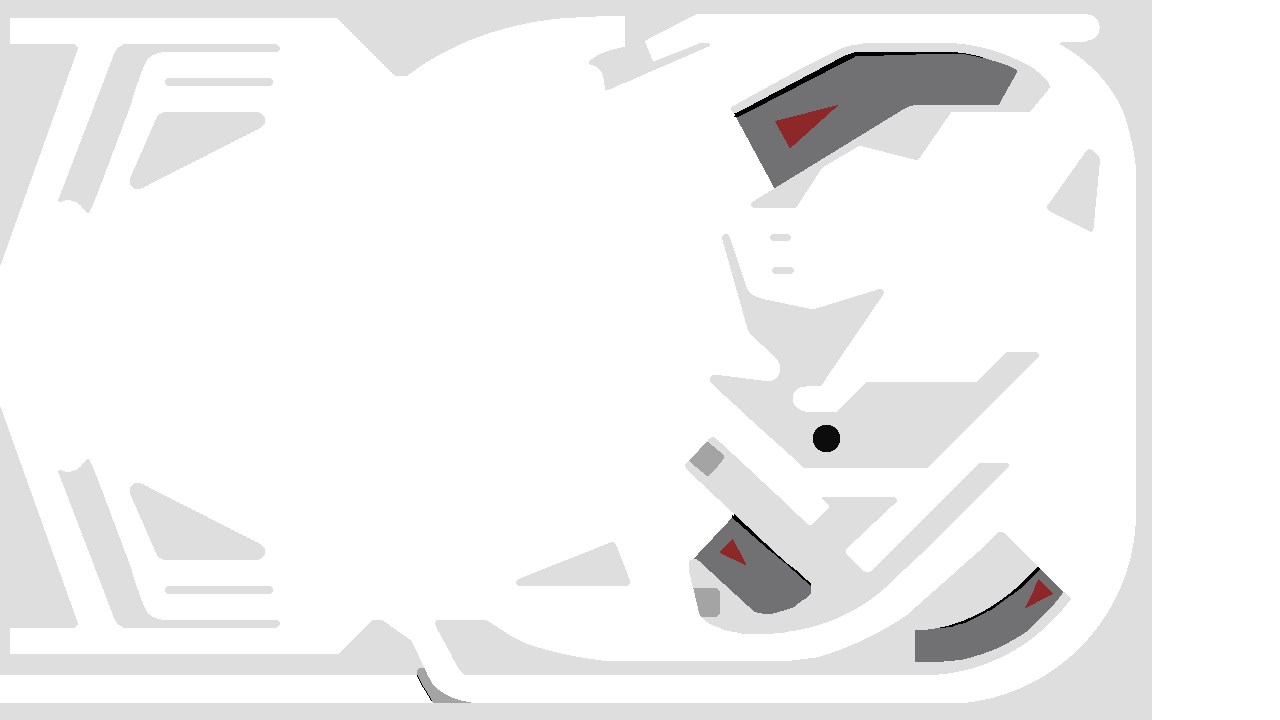
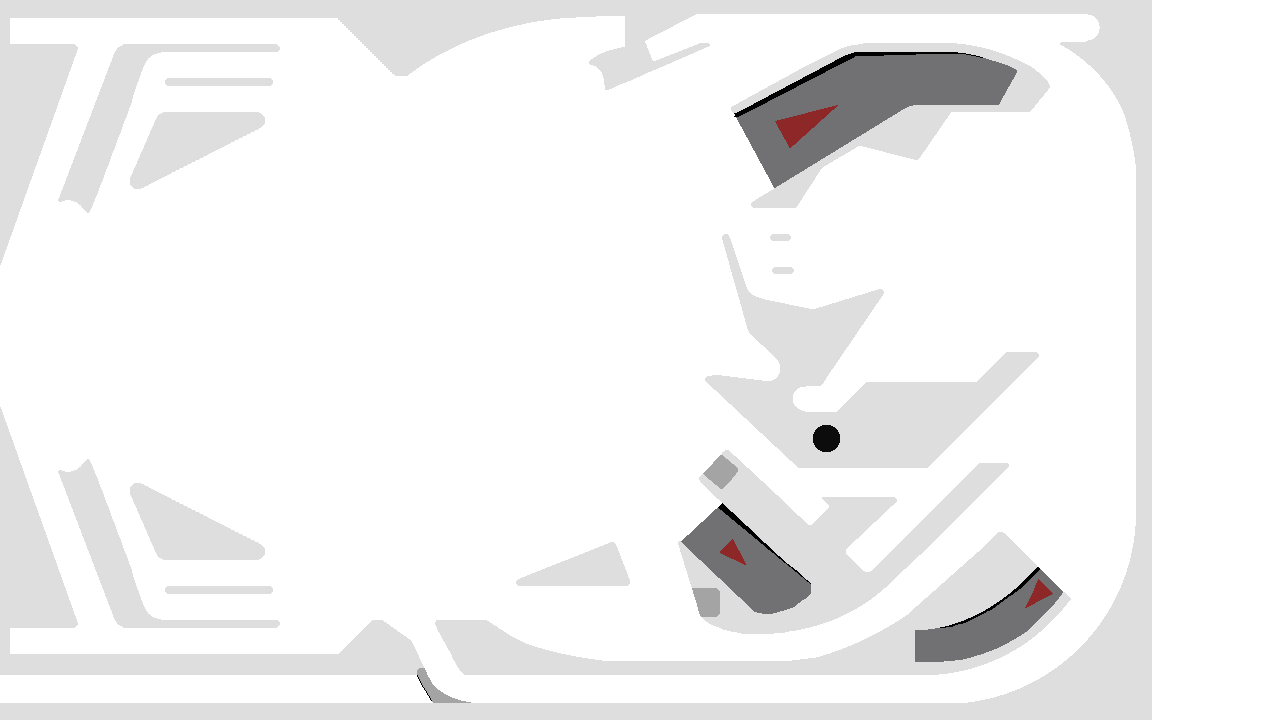
change upper walls, add optwall for ball lock, add pinwheel, update graphics

diff --git a/games/pinball/source/layer.h b/games/pinball/source/layer.h
@@ -40,9 +40,9 @@ class Layer {
 
         // Main table layer
         vector<float> m_upperWall = {859.0, 44.1, 854.5, 45.0, 849.1, 46.1, 843.8, 47.2, 822.1, 58.0, 800.5, 68.8, 766.0, 87.8, 731.5, 106.8, 731.2, 108.5, 730.8, 110.1, 732.0, 111.5, 733.2, 113.0, 734.8, 113.0, 736.4, 113.0, 789.3, 84.9, 842.1, 56.7, 848.8, 54.3, 855.4, 51.9, 910.0, 52.3, 964.5, 52.7, 971.4, 54.4, 978.4, 56.0, 992.9, 60.6, 1007.5, 65.2, 1017.5, 70.3, 1027.5, 75.3, 1034.8, 80.3, 1042.0, 85.4, 1034.4, 95.9, 1026.9, 104.9, 968.7, 105.2, 910.5, 105.5, 906.5, 107.7, 902.5, 109.8, 837.0, 150.0, 771.5, 190.1, 768.3, 193.3, 765.0, 196.4, 765.0, 200.0, 765.0, 203.7, 767.1, 205.6, 769.2, 207.5, 782.8, 207.5, 796.3, 207.5, 808.6, 188.6, 820.9, 169.7, 823.2, 167.5, 825.5, 165.3, 841.2, 155.6, 856.8, 146.0, 859.0, 146.0, 861.2, 146.0, 889.0, 153.2, 916.9, 160.3, 918.3, 159.2, 919.7, 158.0, 935.5, 135.0, 951.3, 112.0, 990.6, 112.0, 1029.9, 112.0, 1036.7, 103.7, 1043.6, 95.5, 1046.9, 91.3, 1050.3, 87.1, 1049.0, 84.0, 1047.7, 80.9, 1040.6, 74.4, 1033.5, 67.8, 1021.5, 62.0, 1009.5, 56.1, 999.1, 52.5, 988.6, 48.9, 976.6, 46.3, 964.5, 43.7, 914.0, 43.4, 863.5, 43.1, 859.0, 44.1};
-        vector<float> m_upperWall2 = {698.3, 450.6, 685.5, 464.2, 685.1, 465.7, 684.8, 467.3, 693.7, 475.9, 702.5, 484.5, 732.4, 512.5, 762.3, 540.5, 773.4, 550.8, 784.5, 561.2, 790.5, 565.8, 796.5, 570.4, 803.7, 577.0, 811.0, 583.5, 811.0, 588.7, 811.0, 593.8, 807.8, 596.5, 804.5, 599.1, 799.0, 603.3, 793.5, 607.4, 782.7, 610.7, 771.9, 614.0, 768.0, 614.0, 764.1, 614.0, 759.3, 613.0, 754.5, 611.9, 725.6, 585.5, 696.8, 559.0, 694.8, 559.0, 692.9, 559.0, 690.9, 560.0, 689.0, 561.1, 689.0, 566.1, 689.0, 571.2, 693.4, 589.3, 697.8, 607.5, 698.5, 610.9, 699.2, 614.3, 703.9, 618.9, 708.5, 623.6, 716.7, 626.8, 724.9, 630.1, 732.2, 631.8, 739.5, 633.5, 759.5, 633.5, 779.5, 633.5, 787.0, 632.1, 794.5, 630.7, 803.5, 628.8, 812.5, 626.9, 824.1, 623.0, 835.7, 619.2, 846.6, 613.7, 857.6, 608.2, 866.5, 602.1, 875.5, 596.1, 882.2, 590.3, 888.9, 584.5, 912.2, 562.3, 935.5, 540.2, 972.4, 503.2, 1009.3, 466.2, 1008.7, 464.6, 1008.1, 463.0, 993.8, 463.0, 979.5, 463.0, 925.0, 517.5, 870.5, 572.0, 867.6, 572.0, 864.7, 572.0, 855.4, 562.8, 846.0, 553.6, 846.0, 551.5, 846.0, 549.3, 870.8, 526.1, 895.5, 502.9, 896.4, 501.5, 897.4, 500.2, 896.1, 498.6, 894.8, 497.0, 858.4, 497.0, 822.0, 497.0, 825.5, 502.0, 829.0, 505.4, 829.0, 506.4, 829.0, 507.5, 820.3, 516.2, 811.5, 525.0, 810.0, 525.0, 808.4, 525.0, 793.5, 510.7, 778.5, 496.4, 746.5, 466.7, 714.6, 437.0, 712.9, 437.0, 711.2, 437.0, 698.3, 450.6};
-        vector<float> m_upperWall3 = {1086.3, 151.2, 1084.3, 153.5, 1066.4, 178.8, 1048.5, 204.1, 1047.5, 205.5, 1046.5, 207.0, 1047.6, 208.7, 1048.6, 210.5, 1069.9, 221.3, 1091.2, 232.2, 1092.3, 231.1, 1093.3, 230.1, 1096.6, 196.3, 1099.9, 162.5, 1100.0, 160.1, 1100.0, 157.7, 1095.6, 153.4, 1091.3, 149.0, 1089.8, 149.0, 1088.3, 149.0, 1086.3, 151.2};
-        vector<float> m_upperWall4 = {723.0, 235.5, 721.8, 237.0, 722.5, 239.7, 723.2, 242.5, 735.1, 285.0, 747.1, 327.5, 748.1, 330.2, 749.2, 332.9, 763.2, 346.1, 777.1, 359.3, 778.5, 362.1, 780.0, 364.9, 780.0, 368.7, 780.0, 372.5, 778.1, 375.6, 776.2, 378.7, 773.0, 380.0, 769.7, 381.4, 741.8, 378.0, 713.9, 374.6, 712.2, 375.6, 710.5, 376.7, 710.2, 379.2, 709.9, 381.7, 722.2, 393.1, 734.4, 404.5, 742.5, 412.1, 750.5, 419.7, 775.0, 441.7, 799.5, 463.7, 801.4, 465.8, 803.3, 468.0, 865.4, 468.0, 927.5, 468.0, 983.5, 412.0, 1039.5, 356.0, 1038.4, 354.3, 1037.3, 352.5, 1021.9, 352.2, 1006.5, 352.0, 991.5, 367.0, 976.5, 382.0, 921.5, 382.0, 866.5, 382.0, 851.5, 397.0, 836.5, 412.0, 821.6, 412.0, 806.7, 412.0, 802.8, 410.8, 798.9, 409.7, 796.0, 406.3, 793.0, 402.9, 793.0, 398.5, 793.0, 394.0, 796.4, 390.2, 799.8, 386.5, 810.6, 386.0, 821.4, 385.5, 824.1, 381.5, 826.8, 377.5, 855.1, 336.0, 883.4, 294.5, 883.4, 292.6, 883.5, 290.8, 881.9, 289.8, 880.4, 288.7, 846.9, 299.0, 813.5, 309.3, 789.5, 304.5, 765.5, 299.7, 759.0, 297.4, 752.5, 295.1, 749.9, 292.2, 747.2, 289.2, 739.0, 264.4, 730.7, 239.5, 729.3, 236.7, 727.9, 234.0, 726.1, 234.0, 724.2, 234.0, 723.0, 235.5};
+        vector<float> m_upperWall2 = {712.3, 463.6, 699.5, 477.2, 699.2, 478.7, 698.8, 480.3, 707.2, 488.4, 715.5, 496.5, 739.4, 519.0, 763.4, 541.5, 773.9, 551.3, 784.5, 561.2, 790.5, 565.8, 796.5, 570.4, 803.7, 577.0, 811.0, 583.5, 811.0, 588.7, 811.0, 593.8, 807.8, 596.5, 804.5, 599.1, 799.0, 603.3, 793.5, 607.4, 782.7, 610.7, 771.9, 614.0, 767.2, 613.9, 762.5, 613.8, 758.3, 612.7, 754.2, 611.5, 717.0, 576.1, 679.8, 540.8, 678.8, 541.8, 677.8, 542.8, 688.4, 577.2, 699.0, 611.5, 699.0, 612.8, 699.0, 614.1, 703.8, 618.8, 708.5, 623.6, 716.7, 626.8, 724.9, 630.1, 732.2, 631.8, 739.5, 633.5, 759.5, 633.5, 779.5, 633.5, 787.0, 632.1, 794.5, 630.7, 803.5, 628.8, 812.5, 626.9, 824.1, 623.0, 835.7, 619.2, 846.6, 613.7, 857.6, 608.2, 866.5, 602.1, 875.5, 596.1, 882.2, 590.3, 888.9, 584.5, 912.2, 562.3, 935.5, 540.2, 972.4, 503.2, 1009.3, 466.2, 1008.7, 464.6, 1008.1, 463.0, 993.8, 463.0, 979.5, 463.0, 925.0, 517.5, 870.5, 572.0, 867.6, 572.0, 864.7, 572.0, 855.4, 562.8, 846.0, 553.6, 846.0, 551.5, 846.0, 549.3, 870.8, 526.1, 895.5, 502.9, 896.4, 501.5, 897.4, 500.2, 896.1, 498.6, 894.8, 497.0, 858.4, 497.0, 822.0, 497.0, 825.5, 502.0, 829.0, 505.4, 829.0, 506.4, 829.0, 507.5, 820.3, 516.2, 811.5, 525.0, 810.0, 525.0, 808.4, 525.0, 793.5, 510.7, 778.5, 496.3, 753.5, 473.2, 728.6, 450.0, 726.9, 450.0, 725.2, 450.0, 712.3, 463.6};
+        vector<float> m_upperWall3 = {1038.0, 237.2, 1034.5, 238.2, 1033.3, 239.2, 1032.0, 240.2, 1032.0, 241.9, 1032.1, 243.5, 1047.8, 275.0, 1063.5, 306.5, 1065.0, 306.8, 1066.6, 307.1, 1078.5, 298.6, 1090.5, 290.1, 1093.8, 287.8, 1097.1, 285.5, 1098.6, 284.1, 1100.1, 282.8, 1099.8, 281.2, 1099.5, 279.6, 1072.0, 257.8, 1044.5, 236.0, 1043.0, 236.1, 1041.5, 236.2, 1038.0, 237.2};
+        vector<float> m_upperWall4 = {723.0, 235.5, 721.8, 237.0, 722.5, 239.7, 723.2, 242.5, 735.1, 285.0, 747.1, 327.5, 748.1, 330.2, 749.2, 332.9, 763.2, 346.1, 777.1, 359.3, 778.5, 362.1, 780.0, 364.9, 780.0, 368.7, 780.0, 372.5, 778.1, 375.6, 776.2, 378.7, 772.9, 380.0, 769.7, 381.4, 742.6, 378.1, 715.5, 374.8, 711.1, 375.6, 706.7, 376.5, 705.6, 378.3, 704.5, 380.0, 708.0, 383.4, 711.5, 386.8, 755.0, 427.4, 798.5, 468.0, 863.0, 468.0, 927.5, 468.0, 983.5, 412.0, 1039.5, 356.0, 1038.4, 354.3, 1037.3, 352.5, 1021.9, 352.2, 1006.5, 352.0, 991.5, 367.0, 976.5, 382.0, 921.5, 382.0, 866.5, 382.0, 851.5, 397.0, 836.5, 412.0, 821.6, 412.0, 806.7, 412.0, 802.8, 410.8, 798.9, 409.7, 796.0, 406.3, 793.0, 402.9, 793.0, 398.5, 793.0, 394.0, 796.4, 390.2, 799.8, 386.5, 810.6, 386.0, 821.4, 385.5, 824.1, 381.5, 826.8, 377.5, 855.1, 336.0, 883.4, 294.5, 883.4, 292.6, 883.5, 290.8, 881.9, 289.8, 880.4, 288.7, 846.9, 299.0, 813.5, 309.3, 789.5, 304.5, 765.5, 299.7, 759.0, 297.4, 752.5, 295.1, 749.9, 292.2, 747.2, 289.2, 739.0, 264.4, 730.7, 239.5, 729.3, 236.7, 727.9, 234.0, 726.1, 234.0, 724.2, 234.0, 723.0, 235.5};
         vector<float> m_upperWall5 = {772.9, 268.6, 771.6, 270.2, 772.7, 271.8, 773.7, 273.5, 783.0, 273.5, 792.3, 273.5, 793.3, 271.8, 794.4, 270.2, 793.1, 268.6, 791.8, 267.0, 783.0, 267.0, 774.2, 267.0, 772.9, 268.6};
         vector<float> m_upperWall6 = {770.9, 235.6, 769.6, 237.2, 770.7, 238.8, 771.7, 240.5, 780.5, 240.5, 789.3, 240.5, 790.3, 238.8, 791.4, 237.2, 790.1, 235.6, 788.8, 234.0, 780.5, 234.0, 772.2, 234.0, 770.9, 235.6};
         vector<float> m_upperWall7 = {564.1, 560.8, 517.6, 579.5, 516.6, 581.2, 515.6, 582.8, 516.9, 584.4, 518.2, 586.0, 572.9, 586.0, 627.6, 586.0, 628.8, 584.8, 630.0, 583.6, 630.0, 582.0, 630.0, 580.4, 623.4, 563.5, 616.9, 546.5, 615.4, 544.2, 614.0, 542.0, 612.2, 542.1, 610.5, 542.2, 564.1, 560.8};
@@ -54,7 +54,7 @@ class Layer {
         vector<float> m_rightBumper = {132.2, 485.3, 130.0, 487.6, 130.0, 490.6, 130.0, 493.5, 143.7, 524.9, 157.4, 556.3, 160.4, 558.1, 163.5, 560.0, 211.2, 560.0, 258.8, 560.0, 261.9, 557.4, 265.0, 554.8, 265.0, 551.6, 265.0, 548.3, 262.7, 546.2, 260.4, 544.0, 257.6, 544.0, 254.9, 544.0, 251.6, 546.5, 248.3, 549.0, 224.3, 537.0, 202.1, 524.9, 196.4, 522.4, 190.8, 519.9, 183.1, 515.5, 175.5, 511.1, 160.0, 503.2, 144.5, 495.3, 144.8, 491.5, 145.2, 487.8, 142.9, 485.4, 140.7, 483.0, 137.5, 483.0, 134.3, 483.0, 132.2, 485.3};
         vector<float> m_backdoor = {415.7, 665.7, 415.0, 666.3, 415.0, 668.5, 415.0, 670.6, 418.1, 676.6, 421.3, 682.5, 426.8, 692.0, 432.4, 701.5, 435.4, 704.8, 438.4, 708.0, 464.0, 707.8, 489.5, 707.5, 489.5, 705.5, 489.5, 703.5, 478.5, 702.8, 467.5, 702.2, 461.5, 700.6, 455.5, 699.0, 448.4, 695.5, 441.4, 692.1, 436.9, 688.2, 432.5, 684.3, 428.5, 676.4, 424.6, 668.5, 422.5, 666.8, 420.5, 665.0, 418.4, 665.0, 416.3, 665.0, 415.7, 665.7};
         vector<vector<float>> m_layer1ShapeData = {
-            m_tubeRight, m_tubeLeft, m_tubeLeftUpper, m_upperWall, m_upperWall2, m_upperWall3, m_upperWall4, m_upperWall5, m_upperWall6, m_upperWall7, m_leftSlide, m_rightSlide, m_rightSlideLine, m_leftSlideLine, m_leftBumper, m_rightBumper, m_backdoor
+            m_tubeRight, m_tubeLeft, m_tubeLeftUpper, m_upperWall, m_upperWall2/*, m_upperWall3*/, m_upperWall4, m_upperWall5, m_upperWall6, m_upperWall7, m_leftSlide, m_rightSlide, m_rightSlideLine, m_leftSlideLine, m_leftBumper, m_rightBumper, m_backdoor
         };
 
         // Layer 3 shapes.

diff --git a/games/pinball/source/wheel.cpp b/games/pinball/source/wheel.cpp
@@ -1,0 +1,110 @@
+#include "wheel.h"
+
+Wheel::Wheel(C2DRenderer* renderer, b2World& world, int wheelID) {
+    m_radius = m_radii.at(wheelID);
+    m_x = m_positions.at(wheelID * 2);
+    m_y = m_positions.at(wheelID * 2 + 1);
+    b2BodyDef bd;
+    bd.position.Set(m_x, m_y);
+    m_pivot = world.CreateBody(&bd);
+
+    b2CircleShape circleShape;
+    circleShape.m_radius = 0.1f;
+
+#if DEBUG
+    m_pivotShape = new CircleShape(0.1f * g_graphicsScale);
+    m_pivotShape->setOrigin(Origin::Center);
+    renderer->add(m_pivotShape);
+#endif
+
+    b2FixtureDef fd;
+    fd.friction = 1.0f;
+    fd.density = 1.0f;
+    fd.shape = &circleShape;
+    //fd.filter.maskBits = 1 << 2;
+    //fd.filter.categoryBits = 1 << 2;
+    fd.filter.maskBits = 1 << 3 | 1 << 2;
+    fd.filter.categoryBits = 1 << 3 | 1 << 2;
+    m_pivot->CreateFixture(&fd);
+
+    bd.type = b2_dynamicBody;
+    bd.position.Set(m_x, m_y);
+    bd.bullet = true;
+    m_body = world.CreateBody(&bd);
+
+    b2Vec2* vs;
+    vs = getVertexArray(m_shapes.at(wheelID), m_radius, m_radius);
+    b2ChainShape shape;
+    shape.CreateChain(vs, m_shapes.at(wheelID).size() / 2);
+    fd.shape = &shape;
+    m_body->CreateFixture(&fd);
+    free(vs);
+
+    // Chain shape has no mass so create
+    // a box that doesn't collide and add it to the body
+    fd.density = 0.001f;
+    fd.friction = 1.0f;
+    fd.filter.maskBits = 0;
+    fd.filter.categoryBits = 0;
+    b2PolygonShape box;
+    box.SetAsBox(1.0, 1.0);
+    fd.shape = &box;
+    m_body->CreateFixture(&fd);
+
+    b2RevoluteJointDef jd;
+    jd.bodyA = m_pivot;
+    jd.bodyB = m_body;
+    jd.collideConnected = true;
+    m_joint = (b2RevoluteJoint*)world.CreateJoint(&jd);
+
+#if DEBUG
+    m_cshape = new ConvexShape();
+    m_cshape->getVertexArray()->setPrimitiveType(PrimitiveType::LineStrip);
+    addPointsToShape(m_cshape, m_shapes.at(wheelID), m_radius, m_radius);
+    renderer->add(m_cshape);
+#else
+    m_texture = new C2DTexture(renderer->getIo()->getDataReadPath() + "pinballnx/wheel" + to_string(wheelID) + ".png");
+    m_texture->setLayer(6);
+    m_texture->setOriginVector(m_radius, m_radius);
+    m_texture->setPosition(m_x * g_graphicsScale, m_y * g_graphicsScale);
+    renderer->add(m_texture);
+#endif
+    m_anglePrev = m_body->GetAngle();
+    m_sectionChanged = false;
+}
+
+void Wheel::update() {
+    //float jointAngle = m_joint->GetJointAngle();
+    //printf("%f %f %f\n", jointAngle, m_lowerLimit, m_upperLimit);
+
+    b2Vec2 position = m_body->GetPosition();
+    float32 angle = m_body->GetAngle();
+
+    // Slow the wheel down, factor of 1000 keeps the ball from getting stuck on top
+    m_body->ApplyTorque(- m_body->GetAngularVelocity() / 1000, true);
+#if DEBUG
+    m_cshape->setPosition(position.x * g_graphicsScale, position.y * g_graphicsScale);
+    m_cshape->setRotation(angle * 180 / M_PI);
+    // Pivot graphics
+    b2Vec2 pivotPosition = m_pivot->GetPosition();
+    m_pivotShape->setPosition(pivotPosition.x * g_graphicsScale, pivotPosition.y * g_graphicsScale);
+#else
+    m_texture->setOriginVector(m_radius, m_radius);
+    m_texture->setPosition(position.x * g_graphicsScale, position.y * g_graphicsScale);
+    m_texture->setRotation(angle * 180 / M_PI);
+#endif
+    if ((int)angle % m_angleSection != (int)m_anglePrev % m_angleSection)
+        m_sectionChanged = true;
+    else
+        m_sectionChanged = false;
+    m_anglePrev = angle;
+}
+
+bool Wheel::changedSection() {
+    return m_sectionChanged;
+}
+
+void Wheel::stop() {
+    m_body->SetAngularVelocity(0);
+}
+

diff --git a/games/pinball/source/table.cpp b/games/pinball/source/table.cpp
@@ -7,6 +7,7 @@ Table::Table(C2DRenderer* renderer, b2World& world) :
     m_spinners(),
     m_pinballs(),
     m_gtargets(),
+    m_wheels(),
     m_scoreboard(renderer),
     m_leftFlipper(renderer, world, 0),
     m_rightFlipper(renderer, world, 1),
@@ -213,6 +214,9 @@ Table::Table(C2DRenderer* renderer, b2World& world) :
     GTarget* leftReturnTargets = new GTarget(renderer, world, 2, 2, true);
     m_gtargets.push_back(leftReturnTargets);
 
+    Wheel* wheel1 = new Wheel(renderer, world, 0);
+    m_wheels.push_back(wheel1);
+
     Pinball* firstPinball = new Pinball(renderer, &world);
     m_pinballs.push_back(firstPinball);
 
@@ -337,7 +341,8 @@ void Table::update(unsigned int keys) {
     for (size_t s = 0; s < m_spinners.size(); s++) {
         Spinner* spinner = m_spinners.at(s);
         spinner->update();
-        m_score += (abs(spinner->getPush()) / 100) * 1000;
+        if (!isGameOver())
+            m_score += (abs(spinner->getPush()) / 100) * 1000;
     }
     for (size_t t = 0; t < m_triggers.size(); t++) {
         Trigger* trigger = m_triggers.at(t);
@@ -346,6 +351,15 @@ void Table::update(unsigned int keys) {
     for(size_t g = 0; g < m_gtargets.size(); g++) {
         GTarget* gtarget = m_gtargets.at(g);
         gtarget->update();
+    }
+    for (size_t w = 0; w < m_wheels.size(); w++) {
+        Wheel* wheel = m_wheels.at(w);
+        if (!isGameOver()) {
+            if (wheel->changedSection()) {
+                m_score += 1000;
+            }
+        }
+        wheel->update();
     }
     if (m_tiltTimer == m_tiltCooldown || DEBUG) {
         if (Input::Key::Left & keys || Input::Key::Right & keys) {
@@ -501,7 +515,7 @@ void Table::EndContact(b2Contact* contact) {
 }
 
 bool Table::isGameOver() {
-    return m_currentBall > 4;
+    return m_currentBall > m_maxBalls;
 }
 
 void Table::newGame() {
@@ -526,8 +540,11 @@ void Table::newGame() {
     for (size_t b = 0; b < m_ballLocks.size(); b++) {
         m_ballLocks.at(b)->resetLocation();
     }
-    for(size_t g = 0; g < m_gtargets.size(); g++) {
+    for (size_t g = 0; g < m_gtargets.size(); g++) {
         m_gtargets.at(g)->reset();
+    }
+    for (size_t w = 0; w < m_wheels.size(); w++) {
+        m_wheels.at(w)->stop();
     }
 }
 
@@ -574,5 +591,13 @@ void Table::cleanup() {
     for (size_t s = 0; s < m_spinners.size(); s++) {
         Spinner* spinner = m_spinners.at(s);
         delete spinner;
+    }
+    for(size_t g = 0; g < m_gtargets.size(); g++) {
+        GTarget* gtarget = m_gtargets.at(g);
+        delete gtarget;
+    }
+    for (size_t w = 0; w < m_wheels.size(); w++) {
+        Wheel* wheel = m_wheels.at(w);
+        delete wheel;
     }
 }

diff --git a/games/pinball/source/ramp.h b/games/pinball/source/ramp.h
@@ -43,7 +43,7 @@ class Ramp {
         vector<float> m_newballEntrance1 = {634.0, 561.6, 632.7, 563.1, 639.5, 588.8, 646.3, 614.5, 647.8, 616.2, 649.3, 618.0, 664.5, 618.0, 679.8, 618.0, 681.1, 616.4, 682.3, 614.9, 676.2, 588.8, 670.0, 562.7, 668.9, 561.4, 667.8, 560.0, 651.5, 560.0, 635.2, 560.0, 634.0, 561.6};
         vector<float> m_newballEntrance2 = {737.3, 339.6, 724.0, 351.2, 724.0, 353.4, 724.0, 355.6, 725.2, 356.8, 726.4, 358.0, 728.5, 358.0, 730.6, 358.0, 743.8, 346.4, 757.0, 334.9, 757.0, 332.6, 757.0, 330.4, 755.8, 329.2, 754.6, 328.0, 752.6, 328.0, 750.5, 328.0, 737.3, 339.6};
         vector<float> m_newballEntrance3 = {1034.2, 23.3, 1032.0, 25.6, 1032.0, 27.6, 1032.0, 29.7, 1034.3, 31.8, 1036.6, 34.0, 1045.6, 34.0, 1054.7, 34.0, 1056.8, 31.7, 1059.0, 29.4, 1059.0, 27.4, 1059.0, 25.3, 1056.7, 23.2, 1054.4, 21.0, 1045.4, 21.0, 1036.3, 21.0, 1034.2, 23.3};
-        vector<float> m_newballEntrance4 = {664.5, 425.3, 656.0, 436.7, 656.0, 437.7, 656.0, 438.8, 659.5, 441.5, 663.1, 444.2, 664.4, 443.7, 665.8, 443.2, 673.5, 432.4, 681.3, 421.6, 681.7, 419.9, 682.2, 418.3, 679.4, 416.1, 676.7, 414.0, 674.9, 414.0, 673.0, 414.0, 664.5, 425.3};
+        vector<float> m_newballEntrance4 = {692.5, 450.3, 684.0, 461.7, 684.0, 462.7, 684.0, 463.8, 687.5, 466.5, 691.1, 469.2, 692.4, 468.7, 693.8, 468.2, 701.5, 457.4, 709.3, 446.6, 709.7, 444.9, 710.2, 443.3, 707.4, 441.1, 704.7, 439.0, 702.9, 439.0, 701.0, 439.0, 692.5, 450.3};
         vector<float> m_underLayerUp = {737.2, 18.7, 736.5, 20.5, 736.5, 29.5, 736.5, 38.5, 754.0, 38.5, 771.5, 38.5, 771.5, 28.0, 771.5, 17.5, 754.7, 17.2, 738.0, 17.0, 737.2, 18.7};
         // Access this vector by index of rampID to get the collision shape for that ramp
         vector<vector<float>> m_rampShapes = {

diff --git a/games/pinball/source/wheel.h b/games/pinball/source/wheel.h
@@ -1,0 +1,42 @@
+#ifndef WHEEL_H_
+#define WHEEL_H_
+
+#include <vector>
+#include "cross2d/c2d.h"
+#include "Box2D/Box2D.h"
+#include "util.h"
+
+using namespace std;
+
+class Wheel {
+    public:
+        Wheel(C2DRenderer* renderer, b2World& world, int wheelID);
+        void update();
+        bool changedSection();
+        void stop();
+    private:
+        float m_x;
+        float m_y;
+        vector<float> m_shape1 = {29.4, 10.3, 28.9, 11.6, 36.8, 25.1, 44.6, 38.5, 48.3, 45.1, 52.0, 51.7, 50.5, 54.6, 49.0, 57.5, 49.0, 60.5, 49.0, 63.5, 50.5, 66.4, 52.1, 69.4, 41.4, 87.9, 30.7, 106.5, 29.6, 108.2, 28.6, 110.0, 29.8, 111.2, 31.1, 112.5, 32.6, 111.5, 34.2, 110.5, 45.3, 91.2, 56.4, 72.0, 59.7, 72.0, 63.1, 72.0, 66.0, 70.5, 69.0, 69.0, 70.5, 66.0, 72.0, 63.0, 95.8, 62.8, 119.5, 62.5, 119.5, 60.5, 119.5, 58.5, 95.8, 58.2, 72.0, 58.0, 70.5, 55.0, 69.0, 52.0, 66.0, 50.5, 63.1, 49.0, 59.7, 49.0, 56.4, 49.0, 47.0, 32.7, 37.7, 16.5, 35.3, 12.7, 33.0, 9.0, 31.5, 9.0, 29.9, 9.0, 29.4, 10.3};
+        vector<vector<float>> m_shapes = {
+            m_shape1
+        };
+        vector<float> m_positions = {
+            10.68, 2.65
+        };
+        vector<float> m_radii = {
+            60
+        };
+        float m_radius;
+        b2RevoluteJoint* m_joint;
+        ConvexShape* m_cshape;
+        C2DTexture* m_texture;
+        b2Body* m_body;
+        b2Body* m_pivot;
+        CircleShape* m_pivotShape;
+        float m_anglePrev;
+        int m_angleSection = 30;
+        bool m_sectionChanged;
+};
+
+#endif

diff --git a/games/pinball/source/spinner.cpp b/games/pinball/source/spinner.cpp
@@ -42,7 +42,7 @@ Spinner::Spinner(C2DRenderer* renderer, b2World& world, int layerID, int spinner
 
 void Spinner::update() {
     if (m_push > 0) {
-        m_push -= ceil(m_push + 1) / 5;
+        m_push -= ceil(m_push + 1) / 10;
         m_frameDuration = 2 * g_displayFrameRate / (m_push);
         if (m_frameTimer < m_frameDuration) {
             m_frameTimer++;
@@ -53,7 +53,7 @@ void Spinner::update() {
         }
     }
     else if (m_push < 0) {
-        m_push -= floor(m_push - 1) / 5;
+        m_push -= floor(m_push - 1) / 10;
         m_frameDuration = 2 * g_displayFrameRate / (-m_push);
         if (m_frameTimer < m_frameDuration) {
             m_frameTimer++;
@@ -80,7 +80,7 @@ int Spinner::getPush() {
 }
 
 void Spinner::push(b2Vec2 ballVelocity) {
-    m_push = 200 * ballVelocity.x;
+    m_push = 1600 * ballVelocity.x;
     m_frameDuration = 2 * g_displayFrameRate / (m_push);
 }
 

diff --git a/games/pinball/source/table.h b/games/pinball/source/table.h
@@ -18,6 +18,7 @@
 #include "trigger.h"
 #include "balllock.h"
 #include "gtarget.h"
+#include "wheel.h"
 
 using namespace c2d;
 using namespace std;
@@ -50,6 +51,7 @@ class Table : public b2ContactListener {
         vector<int> m_lockBallLocations;
         vector<BallLock*> m_ballLocks;
         vector<GTarget*> m_gtargets;
+        vector<Wheel*> m_wheels;
         Scoreboard m_scoreboard;
         Flipper m_leftFlipper;
         Flipper m_rightFlipper;

diff --git a/games/pinball/source/pinball.h b/games/pinball/source/pinball.h
@@ -38,7 +38,7 @@ class Pinball {
             7.1f, 6.03f, // Right most lock ball ejector
             7.67f, 3.67f, // Middle lock ball ejector
             10.9f, 0.28f, // Left lock ball ejector
-            7.10f, 4.60f // Second to right lock ball ejector
+            7.25f, 4.77f // Second to right lock ball ejector
         };
         vector<float> m_startVelocities = {
             0.0f, 0.0f,

diff --git a/games/pinball/source/flipper.cpp b/games/pinball/source/flipper.cpp
@@ -57,6 +57,7 @@ Flipper::Flipper(C2DRenderer* renderer, b2World& world, int flipperID) {
     shape.Set(vs, 8);
     fd.shape = &shape;
     m_body->CreateFixture(&fd);
+    free(vs);
 
     b2RevoluteJointDef jd;
     jd.bodyA = m_pivot;
